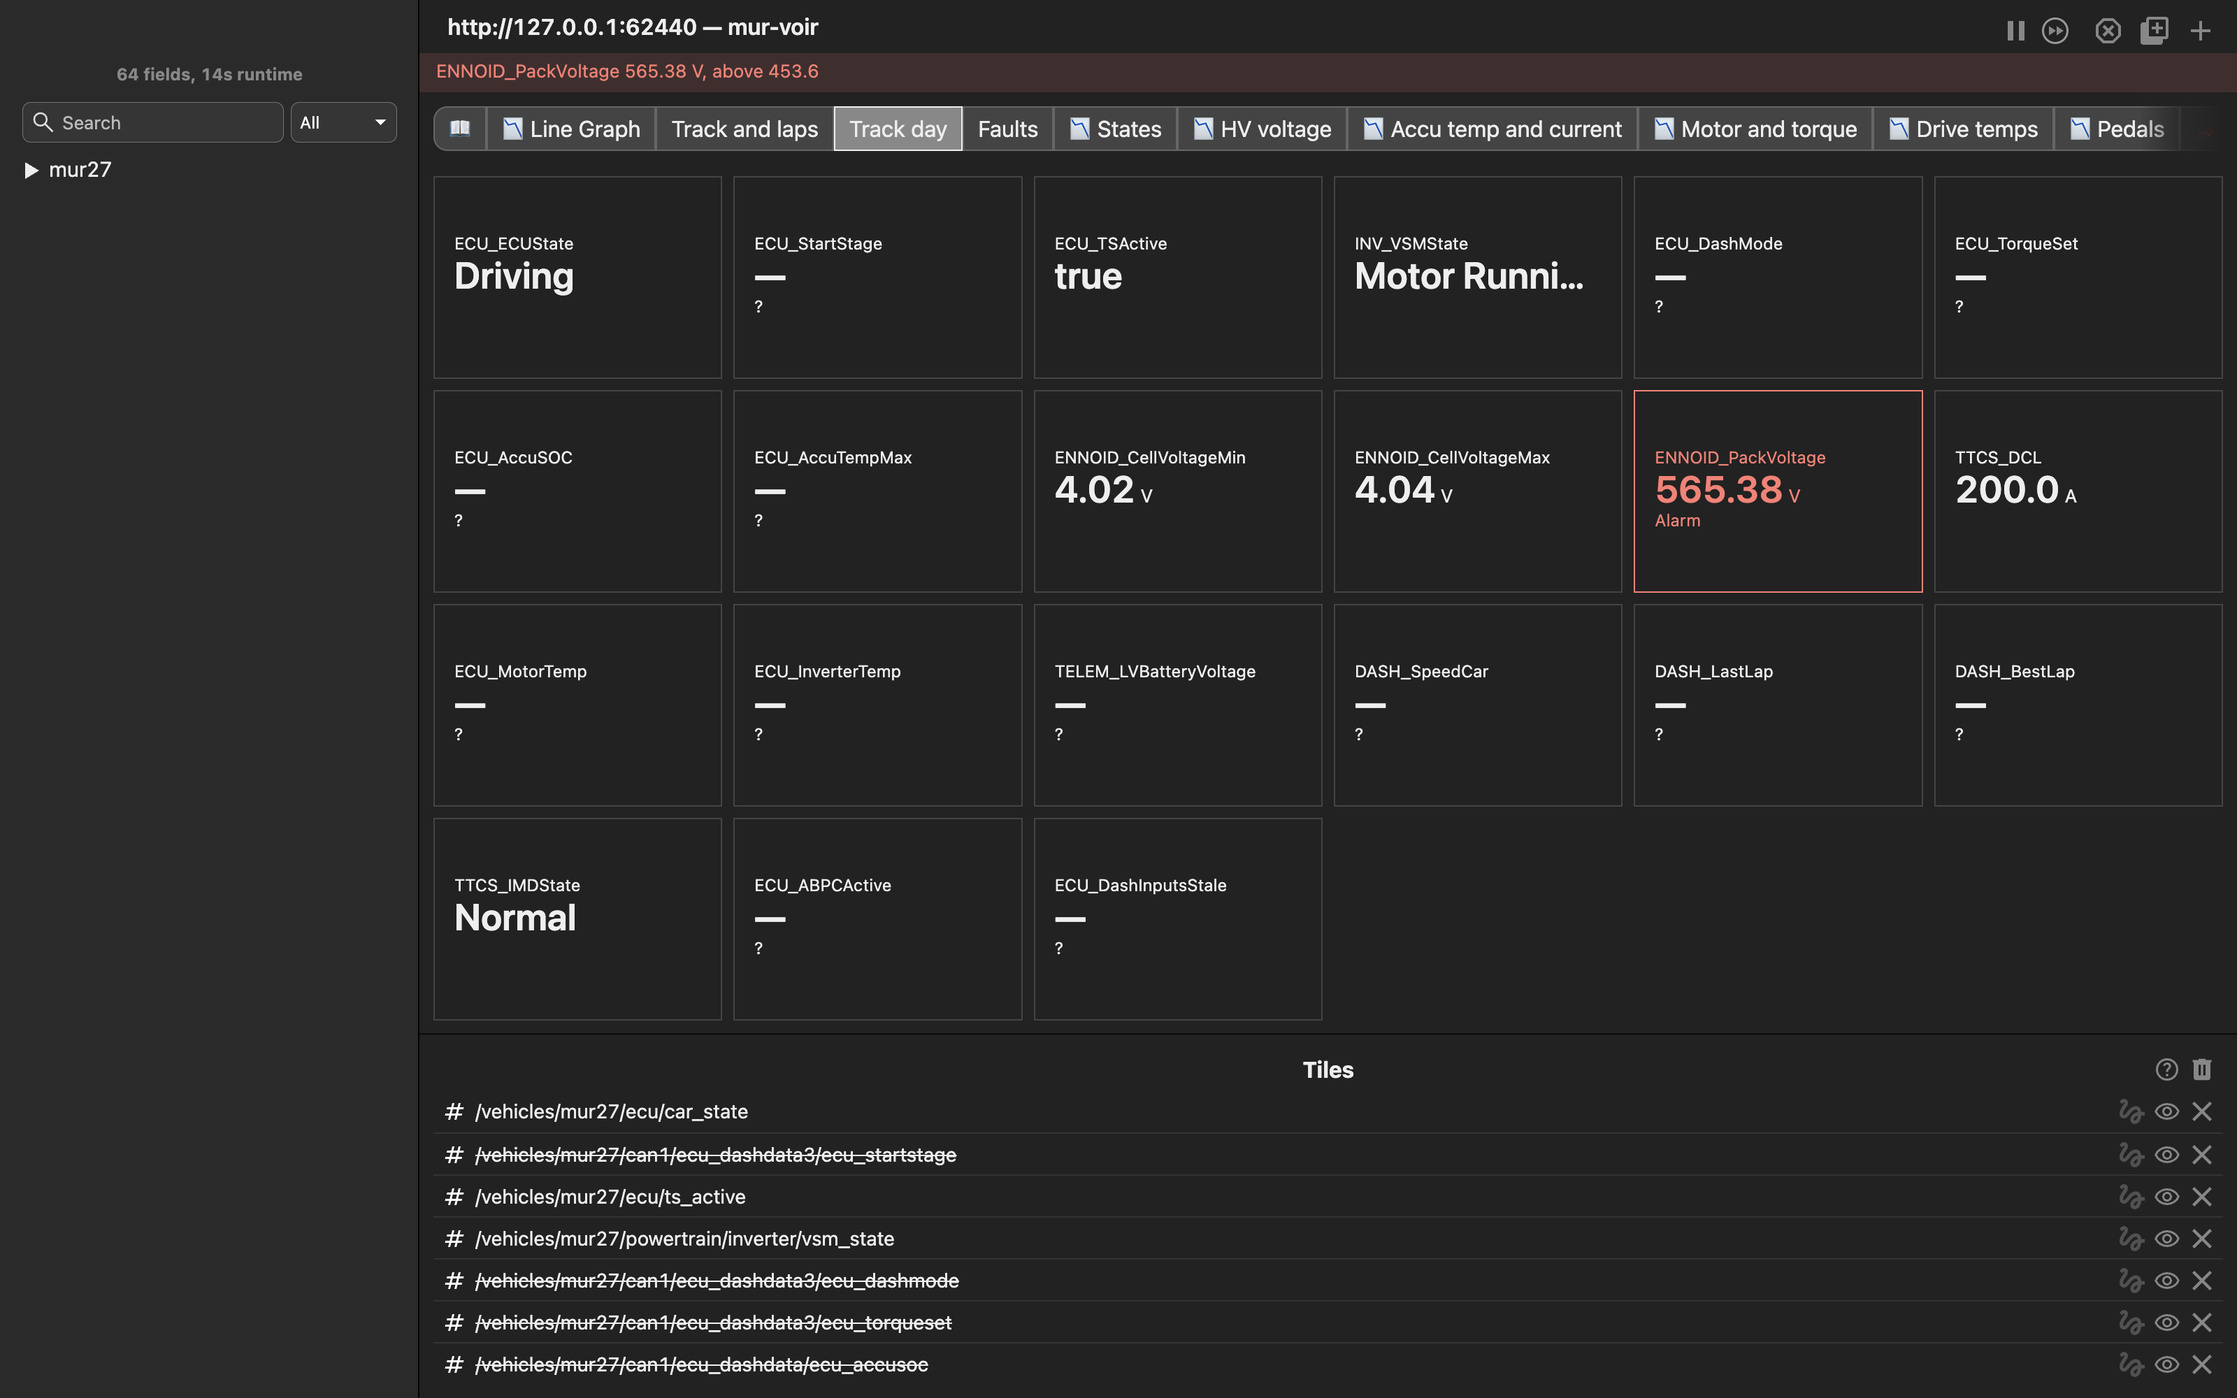
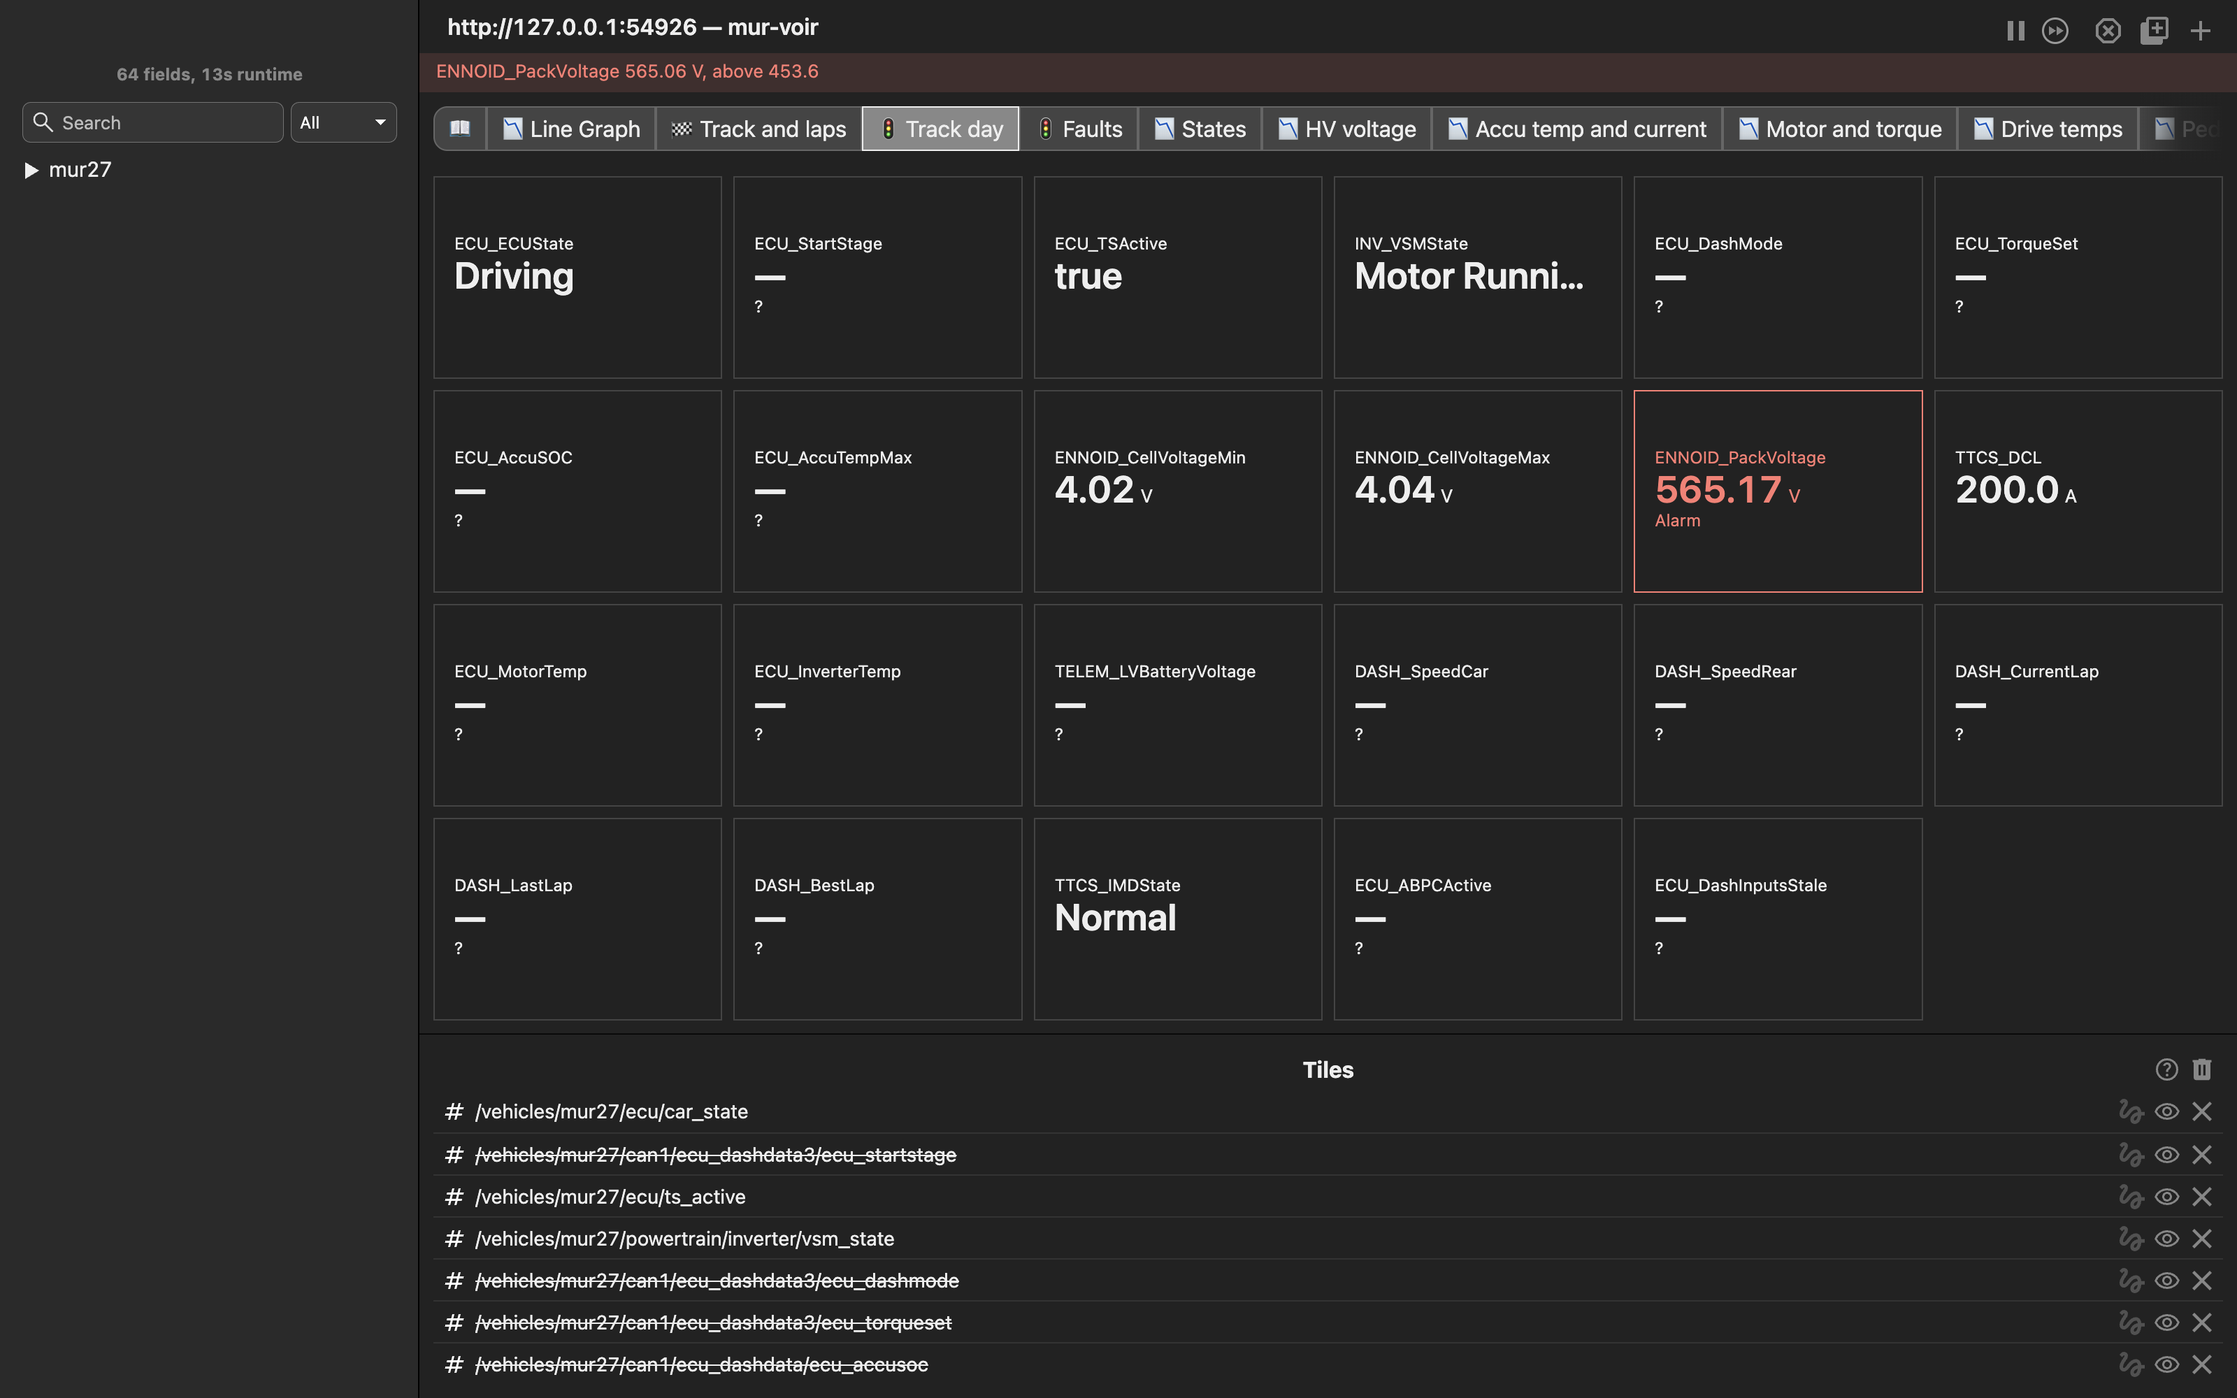
Fix review items: no duplicate tabs from ?layout=, live values in DBC units
- ?layout=default adds the layout only when its tabs aren't already open,
  so a bookmarked or pinned link doesn't pile up copies. The menu still
  always adds. lite-smoke reopens the link in a browser with the layout
  saved.
- Live fields the car's publisher converted to SI (km/h to m/s, rpm to
  rad/s, psi to Pa) now display in the DBC unit, so live and MF4 agree.
  Trackside limits compare in that unit for both.
- The alert strip names a missing field by its saved DBC signal.
- Track day adds DASH_SpeedRear and DASH_CurrentLap (23 tiles).

diff --git a/test/default-layout.test.ts b/test/default-layout.test.ts
@@ -19,8 +19,8 @@ import { parseDBC } from "../src/hub/dataSources/can/DBC";
 import { isLiveSentinel } from "../src/hub/dataSources/mur/LiveSentinels";
 import { createField, writeValue } from "../src/hub/dataSources/mur/MURLogAdapter";
 import SourceList from "../src/hub/SourceList";
-import { DEFAULT_LAYOUTS, getDefaultLayout } from "../src/shared/DefaultLayouts";
-import { channelProfile } from "../src/shared/display/ChannelProfile";
+import { DEFAULT_LAYOUTS, getDefaultLayout, isLayoutOpen } from "../src/shared/DefaultLayouts";
+import { channelProfile, convertChannelValue } from "../src/shared/display/ChannelProfile";
 import Log from "../src/shared/log/Log";
 import LoggableType from "../src/shared/log/LoggableType";
 import type { SignalDescriptor } from "../src/shared/mur/contract";
@@ -215,4 +215,42 @@ test("a DBC fallback re-point reports the old and new keys, and Trackside limits
   controller.limits = { a: { low: 1 }, b: { low: 2 } };
   controller.moveLimits("a", "b");
   assert.deepEqual(controller.limits, { a: { low: 1 }, b: { low: 2 } });
+});
+
+test("the ?layout= link skips a layout whose tabs are already open, the menu always adds", () => {
+  const layout = getDefaultLayout("default")!;
+  const saved = layout.state.tabs.tabs.map(({ type, title }) => ({ type, title }));
+  assert.equal(isLayoutOpen(layout, saved), true);
+  assert.equal(isLayoutOpen(layout, [...saved, { type: TabType.LineGraph, title: "" }]), true);
+  assert.equal(isLayoutOpen(layout, saved.slice(0, -1)), false);
+  assert.equal(isLayoutOpen(layout, [{ type: TabType.Documentation, title: "" }]), false);
+});
+
+test("live fields the publisher converted to SI display in their DBC unit, with limits in that unit", () => {
+  const speed = sentinelDescriptor("DASH_SpeedCar", "Dashboard_Speed", "m/s");
+  const rpm = { ...sentinelDescriptor("INV_MotorSpeedRPM", "INV_MotorPosition", "rad/s") };
+  rpm.dbc = { signal: "INV_MotorSpeedRPM", message: "INV_MotorPosition", database: "Cascadia_PM100DZ.dbc" };
+  const log = new Log();
+  createField(log, speed);
+  createField(log, rpm);
+  const speedKey = "/" + speed.path;
+  const speedProfile = log.getChannelProfile(speedKey);
+  assert.equal(JSON.parse(log.getMetadataString(speedKey)).dbcUnit, "km/h");
+  assert.equal(speedProfile.to, "kilometers/hour");
+  assert.ok(Math.abs(convertChannelValue(50 / 3.6, speedProfile) - 50) < 1e-9);
+  assert.equal(tileState(speedKey, 50 / 3.6, speedProfile, { high: 40 }).severity, "critical");
+  assert.equal(tileState(speedKey, 50 / 3.6, speedProfile, { high: 60 }).severity, "ok");
+  assert.equal(tileState(speedKey, 50 / 3.6, speedProfile).unit, speedProfile.unit);
+
+  const rpmProfile = log.getChannelProfile("/" + rpm.path);
+  assert.equal(rpmProfile.to, "rotations/minute");
+  assert.ok(Math.abs(convertChannelValue((3000 * 2 * Math.PI) / 60, rpmProfile) - 3000) < 1e-6);
+
+  // An MF4 field is already in the DBC unit, so the same limit means the same thing.
+  const mf4 = channelProfile({ name: "DASHBOARD/DASH_SpeedCar", unit: "km/h" });
+  assert.equal(tileState("DASH/DASH_SpeedCar", 50, mf4, { high: 40 }).severity, "critical");
+  // Unconverted units (V) keep their own unit.
+  const accu = sentinelDescriptor("ECU_AccuTempMax", "ECU_DashData", "K");
+  createField(log, accu);
+  assert.equal(log.getChannelProfile("/" + accu.path).to, "celsius");
 });

diff --git a/src/hub/dataSources/mur/LiveSentinels.ts b/src/hub/dataSources/mur/LiveSentinels.ts
@@ -51,6 +51,18 @@ function bundledSignals() {
   return signalsByName;
 }
 
+/** The bundled DBC signal a live descriptor came from, preferring its own database and message. */
+function bundledSignal(descriptor: SignalDescriptor): DBCSignal | undefined {
+  const dbc = descriptor.dbc;
+  if (!dbc?.signal) return undefined;
+  const candidates = bundledSignals().get(dbc.signal) ?? [];
+  return (
+    candidates.find((c) => c.source === dbc.database && c.message === dbc.message) ??
+    candidates.find((c) => c.message === dbc.message) ??
+    candidates[0]
+  )?.signal;
+}
+
 /**
  * The values a live numeric field takes when its DBC signal reports "no reading" (for example
  * ECU_AccuTempMax's raw 0x7FFF, 3276.7 °C, sent as 3549.85 K), in the units the descriptor uses.
@@ -60,15 +72,9 @@ export function liveSentinels(descriptor: SignalDescriptor): Sentinel[] {
   const cached = cache.get(descriptor);
   if (cached !== undefined) return cached;
   let sentinels: Sentinel[] = [];
-  const dbc = descriptor.dbc;
-  if (descriptor.type === "float64" && dbc?.signal) {
-    const candidates = bundledSignals().get(dbc.signal) ?? [];
-    const match =
-      candidates.find((c) => c.source === dbc.database && c.message === dbc.message) ??
-      candidates.find((c) => c.message === dbc.message) ??
-      candidates[0];
-    if (match !== undefined) {
-      const { signal } = match;
+  if (descriptor.type === "float64") {
+    const signal = bundledSignal(descriptor);
+    if (signal !== undefined) {
       const [multiplier, offset] = PUBLISHER_UNITS[signal.unit] ?? [1, 0];
       sentinels = [...signal.sentinels].map((raw) => {
         const signed = signal.signed && raw >= 2 ** (signal.length - 1) ? raw - 2 ** signal.length : raw;
@@ -82,6 +88,16 @@ export function liveSentinels(descriptor: SignalDescriptor): Sentinel[] {
   }
   cache.set(descriptor, sentinels);
   return sentinels;
+}
+
+/**
+ * The DBC unit of a live field whose value the publisher converted to SI, e.g. "km/h" for a field
+ * sent in m/s. Null when the field has no DBC signal or was sent unconverted.
+ */
+export function liveDbcUnit(descriptor: SignalDescriptor): string | null {
+  const signal = bundledSignal(descriptor);
+  if (signal === undefined || !(signal.unit in PUBLISHER_UNITS) || signal.unit === "raw") return null;
+  return signal.unit;
 }
 
 /** True if a live numeric sample is its signal's "no reading" value. */

diff --git a/src/shared/display/ChannelProfile.ts b/src/shared/display/ChannelProfile.ts
@@ -16,6 +16,8 @@ export interface ChannelMetadata {
   min?: number;
   max?: number;
   enumLabels?: Record<string, string>;
+  /** The DBC's own unit for a live field the car's publisher converted to SI (e.g. "km/h" sent as m/s). */
+  dbcUnit?: string;
 }
 export interface ChannelOverride {
   unit?: string;
@@ -33,6 +35,8 @@ export interface ChannelProfile {
 export function canonicalChannelPath(path: string): string {
   return path.replaceAll(".", "/").replace(/^\/+|\/+$/g, "");
 }
+/** DBC unit spellings the unit table doesn't know. */
+const DBC_UNIT_ALIASES: { [unit: string]: string } = { degC: "celsius" };
 export function resolveUnit(unit: string): string | null {
   if (unit in Units.ALL_UNITS) return unit;
   return Units.UNIT_SUFFIXES[unit.toLowerCase()] ?? null;
@@ -45,6 +49,9 @@ export function channelProfile(metadata: ChannelMetadata, override: ChannelOverr
   if (from === "pascals") to = "kilopascals";
   if (from === "meters" && /shock|suspension|damper/i.test(metadata.name)) to = "millimeters";
   if (from === "ratio" && /soc|state_?of_?charge|duty|throttle|pedal/i.test(metadata.name)) to = "percent";
+  // Show live values in the DBC's unit, so they match the dash and MF4 runs (13.9 m/s reads 50 km/h).
+  const dbcUnit = metadata.dbcUnit ? resolveUnit(DBC_UNIT_ALIASES[metadata.dbcUnit] ?? metadata.dbcUnit) : null;
+  if (dbcUnit && from && Units.GROUP_BY_UNIT[dbcUnit] === Units.GROUP_BY_UNIT[from]) to = dbcUnit;
   if (override.unit !== undefined) {
     const requested = resolveUnit(override.unit);
     if (requested && from && Units.GROUP_BY_UNIT[requested] === Units.GROUP_BY_UNIT[from]) to = requested;

diff --git a/src/hub/hub.ts b/src/hub/hub.ts
@@ -6,7 +6,7 @@
 // at the root directory of this project.
 
 import { AdvantageScopeAssets } from "../shared/AdvantageScopeAssets";
-import { getDefaultLayout } from "../shared/DefaultLayouts";
+import { getDefaultLayout, isLayoutOpen } from "../shared/DefaultLayouts";
 import { HubState } from "../shared/HubState";
 import NamedMessage from "../shared/NamedMessage";
 import Preferences from "../shared/Preferences";
@@ -624,9 +624,14 @@ async function handleMainMessage(message: NamedMessage) {
       break;
 
     case "add-default-layout": {
-      // Adds a bundled layout's tabs after the open ones (File > Default Layouts, Lite's ?layout=).
-      const layout = getDefaultLayout(message.data);
-      if (layout !== undefined) window.tabs.appendState(layout.state.tabs);
+      // Adds a bundled layout's tabs after the open ones. The menu sends the id and always adds;
+      // Lite's ?layout= link sends { id, ifMissing: true } so a bookmarked link doesn't pile up copies.
+      const request: { id: string; ifMissing?: boolean } =
+        typeof message.data === "string" ? { id: message.data } : message.data;
+      const layout = getDefaultLayout(request.id);
+      if (layout === undefined) break;
+      if (request.ifMissing && isLayoutOpen(layout, window.tabs.saveState().tabs)) break;
+      window.tabs.appendState(layout.state.tabs);
       break;
     }
 

diff --git a/src/main/lite/main.ts b/src/main/lite/main.ts
@@ -350,15 +350,15 @@ async function initHub() {
     state = JSON.parse(stateStr);
   }
   // A browser with no saved layout starts with the bundled default layout.
-  const firstOpen = state === null;
   if (state === null) state = getDefaultLayout("default")?.state ?? null;
   if (state !== null) sendMessage(hubPort, "restore-state", state);
-  // ?layout=<id> adds a bundled layout's tabs, then leaves the URL so a reload doesn't add them again.
+  // ?layout=<id> adds a bundled layout's tabs unless they are already open, then leaves the URL so
+  // a reload doesn't re-run it. The hub applies restore-state first, so it sees the saved tabs.
   const url = new URL(window.location.href);
   const layoutId = url.searchParams.get("layout");
   if (layoutId !== null) {
-    if (getDefaultLayout(layoutId) !== undefined && !(firstOpen && layoutId === "default")) {
-      sendMessage(hubPort, "add-default-layout", layoutId);
+    if (getDefaultLayout(layoutId) !== undefined) {
+      sendMessage(hubPort, "add-default-layout", { id: layoutId, ifMissing: true });
     }
     url.searchParams.delete("layout");
     window.history.replaceState(null, "", url.toString());

diff --git a/src/hub/TracksideAlerts.ts b/src/hub/TracksideAlerts.ts
@@ -7,7 +7,11 @@
 
 import { alertLine, dbcDefinition, isTracksideLive, Limits, tileLabel, tileState } from "../shared/Trackside";
 
-export function updateTracksideAlerts(element: HTMLElement, allLimits: { [key: string]: Limits }[]) {
+export function updateTracksideAlerts(
+  element: HTMLElement,
+  allLimits: { [key: string]: Limits }[],
+  savedDbcSignals: { [key: string]: string } = {}
+) {
   const liveTime = window.selection.getCurrentLiveTime();
   const time = liveTime ?? window.selection.getRenderTime() ?? window.log.getTimestampRange()[1];
   const summary = window.liveStatus?.getLiveStatus();
@@ -36,7 +40,7 @@ export function updateTracksideAlerts(element: HTMLElement, allLimits: { [key: s
         isTracksideLive(summary, liveTime)
           ? { summary, freshness: window.liveStatus!.getFieldFreshness(key), age: window.liveStatus!.getFieldAge(key) }
           : undefined,
-        tileLabel(window.log.getMetadataString(key), key)
+        tileLabel(window.log.getMetadataString(key), key, savedDbcSignals[key])
       );
       return { tile, value, profile, limits, fault };
     })

diff --git a/src/hub/dataSources/mur/MURLogAdapter.ts b/src/hub/dataSources/mur/MURLogAdapter.ts
@@ -29,7 +29,7 @@
 import Log from "../../../shared/log/Log";
 import LoggableType from "../../../shared/log/LoggableType";
 import type { ConeArray, Pose3, Quaternion, SignalDescriptor, Trajectory, Vector3 } from "../../../shared/mur/contract";
-import { isLiveSentinel } from "./LiveSentinels";
+import { isLiveSentinel, liveDbcUnit } from "./LiveSentinels";
 
 /** Converts a catalogue path to a Log key. */
 export function pathToKey(path: string): string {
@@ -100,6 +100,8 @@ export function getMetadataString(descriptor: SignalDescriptor): string {
     metadata.unit = UNIT_ALIASES[descriptor.unit] ?? descriptor.unit;
   }
   if (descriptor.dbc?.signal) metadata.dbcSignal = descriptor.dbc.signal;
+  const dbcUnit = descriptor.type === "float64" ? liveDbcUnit(descriptor) : null;
+  if (dbcUnit !== null) metadata.dbcUnit = dbcUnit;
   metadata.precision = descriptor.display?.precision;
   metadata.scale = descriptor.display?.scale;
   metadata.min = descriptor.min;

diff --git a/src/shared/DefaultLayouts.ts b/src/shared/DefaultLayouts.ts
@@ -5,7 +5,8 @@
 // license that can be found in the LICENSE file
 // at the root directory of this project.
 
-import { HubState } from "./HubState";
+import { HubState, TabState } from "./HubState";
+import TabType from "./TabType";
 import trackDay from "./layouts/default.json";
 
 /**
@@ -20,4 +21,11 @@ export const DEFAULT_LAYOUTS: DefaultLayout[] = [
 
 export function getDefaultLayout(id: string | null | undefined): DefaultLayout | undefined {
   return DEFAULT_LAYOUTS.find((layout) => layout.id === id);
+}
+
+/** True if every tab of the layout (except Documentation) is already open, matched by type and title. */
+export function isLayoutOpen(layout: DefaultLayout, openTabs: Pick<TabState, "type" | "title">[]): boolean {
+  return layout.state.tabs.tabs
+    .filter((tab) => tab.type !== TabType.Documentation)
+    .every((tab) => openTabs.some((open) => open.type === tab.type && open.title === tab.title));
 }

diff --git a/src/hub/Tabs.ts b/src/hub/Tabs.ts
@@ -337,7 +337,7 @@ export default class Tabs {
       periodicGuard.run(() => {
         if (performance.now() - lastAlerts >= 200) {
           lastAlerts = performance.now();
-          updateTracksideAlerts(alertElement, this.getTracksideLimits());
+          updateTracksideAlerts(alertElement, this.getTracksideLimits(), this.getTracksideDbcSignals());
         }
         // Update tab bar
         this.SHADOW_LEFT.style.opacity = Math.floor(this.TAB_BAR.scrollLeft) <= 0 ? "0" : "1";
@@ -542,6 +542,15 @@ export default class Tabs {
       activeFields.add(utilityKey);
     }
     return activeFields;
+  }
+
+  getTracksideDbcSignals(): { [key: string]: string } {
+    return Object.assign(
+      {},
+      ...this.tabList.flatMap((tab) =>
+        tab.controller instanceof TracksideController ? [tab.controller.getSavedDbcSignals()] : []
+      )
+    );
   }
 
   getTracksideLimits() {

diff --git a/src/hub/controllers/TracksideController.ts b/src/hub/controllers/TracksideController.ts
@@ -109,6 +109,12 @@ export default class TracksideController implements TabController {
     const keys = new Set(this.sourceList.getState().map((source) => source.logKey));
     return Object.fromEntries(Object.entries(this.limits).filter(([key]) => keys.has(key)));
   }
+  /** The DBC signal each tile was saved with, for naming fields the open log lacks. */
+  getSavedDbcSignals(): { [key: string]: string } {
+    return Object.fromEntries(
+      this.sourceList.getState().flatMap((source) => (source.dbcSignal ? [[source.logKey, source.dbcSignal]] : []))
+    );
+  }
   getActiveFields() {
     return this.sourceList.getActiveFields();
   }
